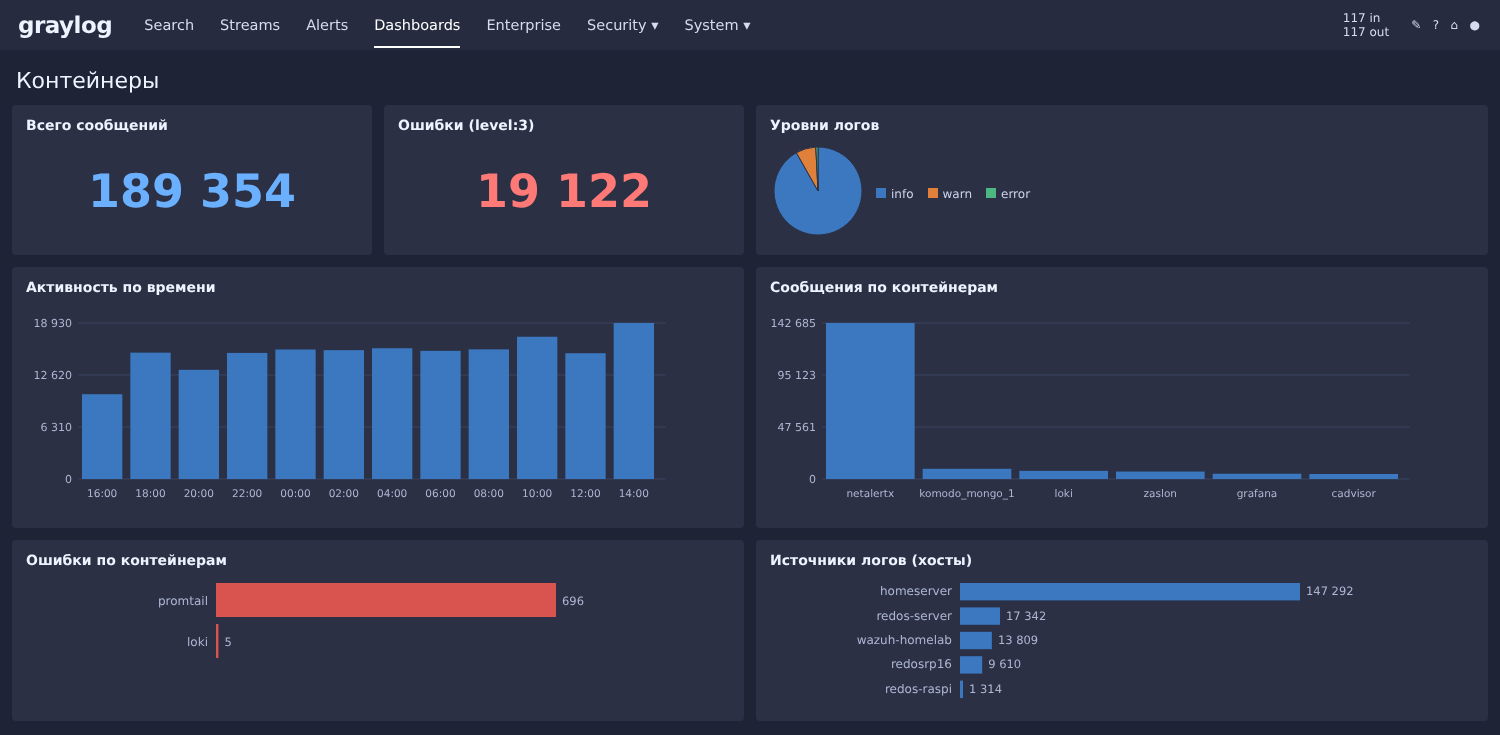
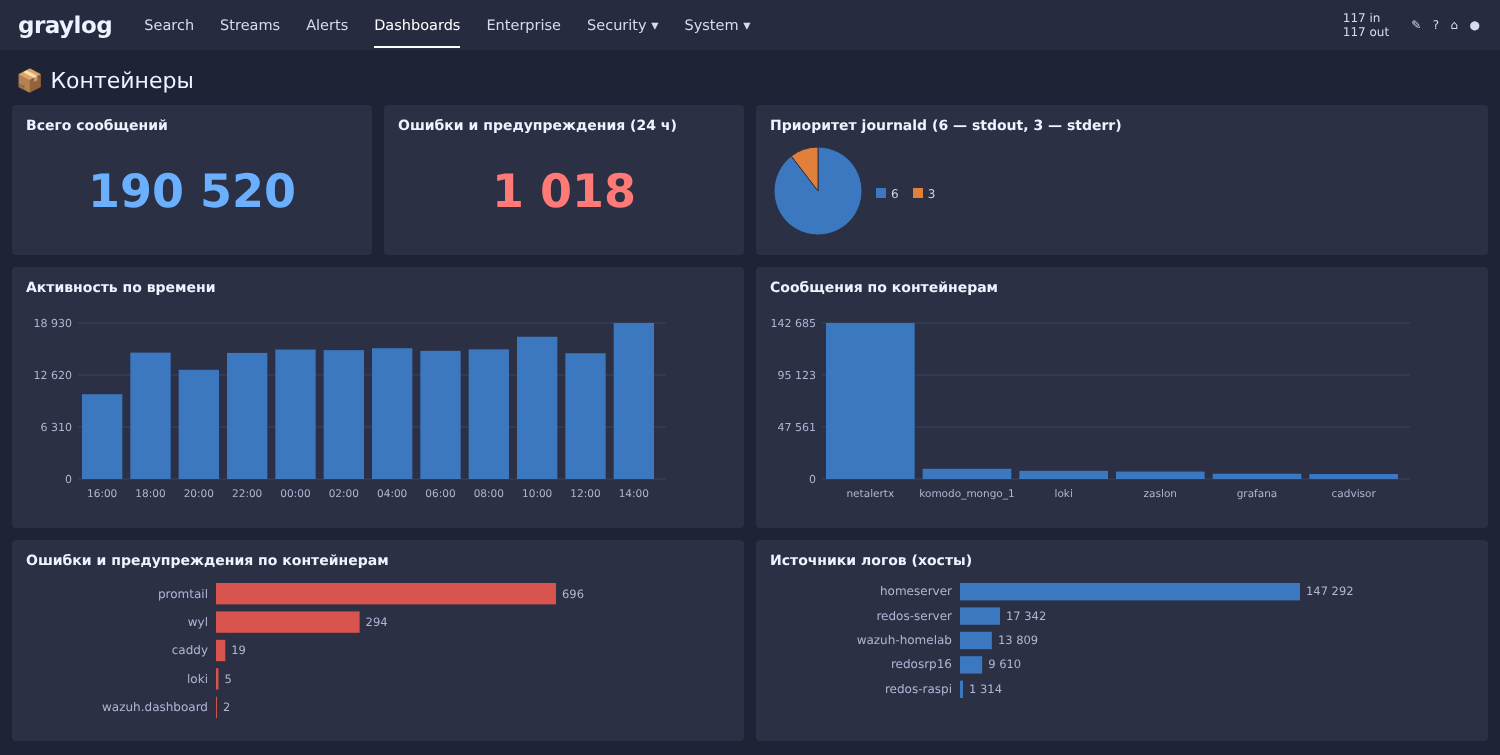
docs: подписи дашбордов, определение ошибки контейнеров, обновлённая картинка

diff --git a/docs/07-dashboards.md b/docs/07-dashboards.md
@@ -154,6 +154,21 @@ Graylog тем же способом, что и в [главе 9](09-containers-
 > `container_name`, `loglevel`) зависят от твоих пайплайнов и extractor-ов, как и в первых
 > семи дашбордах.
 
+### Остальные дашборды
+
+Кроме перечисленных, в Graylog есть рабочие дашборды по источникам. У каждого есть значок и
+описание в списке дашбордов:
+
+| Дашборд | Что показывает |
+|---|---|
+| 🍎 macOS: журналы Unified и osquery | Сбои, ошибки, TCC и события безопасности macOS |
+| 🛡 macOS: BI.ZONE Triage | Процессы, пользователи, неподписанные файлы, подозрительные команды |
+| 🪟 Windows: Sysmon и события входа | Процессы, входы, реестр, загрузка DLL |
+| 🐧 РЕД ОС: auditd | Команды, сервисы, сессии, типы аудита |
+| 📡 Keenetic: журналы роутера | ARP-конфликты, SSH, Wi-Fi и WireGuard в деталях |
+| 📦 Контейнеры, 🔧 диагностика, ⚙ процессы | Три дашборда из [главы 9](09-containers-dashboards.md) |
+| 📊 Общий базовый дашборд | Все источники: объём по входам, потокам и узлам |
+
 ## Как это устроено
 
 Каждый дашборд — это Graylog View (`DASHBOARD`) с одной страницей. Все виджеты

diff --git a/docs/08-containers.md b/docs/08-containers.md
@@ -132,13 +132,13 @@ Saved Searches на потоке **Containers**, окно 24 часа:
 | Название | Запрос |
 |---|---|
 | Контейнеры: все | `*` |
-| Контейнеры: ошибки | `level:3` |
+| Контейнеры: ошибки | `level:3` (приоритет journald, то есть stderr; для реальных ошибок см. главу 9) |
 | Контейнеры: observiumdb | `container_name:observiumdb` |
 | Контейнеры: MongoDB | `container_name:komodo_mongo_1` |
 | Контейнеры: promtail и loki | `container_name:promtail OR container_name:loki` |
 
 Дашборд «Контейнеры»: Bar chart по `container_name`, Area chart по времени с разбивкой по
-`container_name`, Pie по `source` для `level:3`, таблица последних сообщений с полями
+`container_name`, Pie по `source` для `level:3` (stderr), таблица последних сообщений с полями
 `timestamp`, `source`, `container_name`, `log_s`, `log_msg`.
 
 ![Поиск по потоку Containers: promtail, loki, MongoDB](images/containers-search.png)
